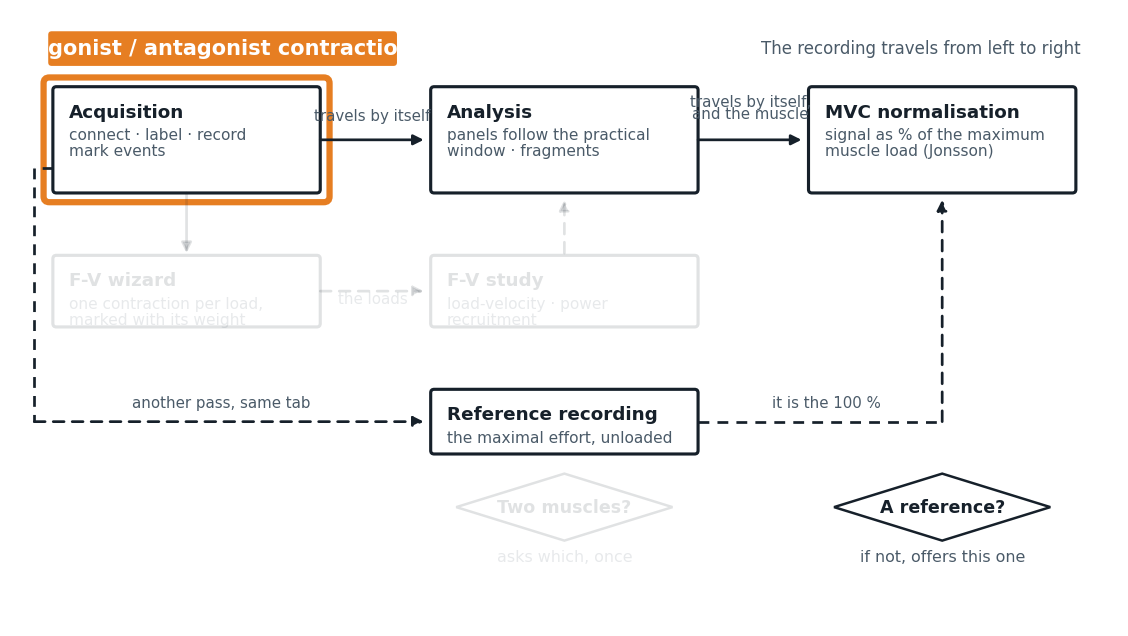
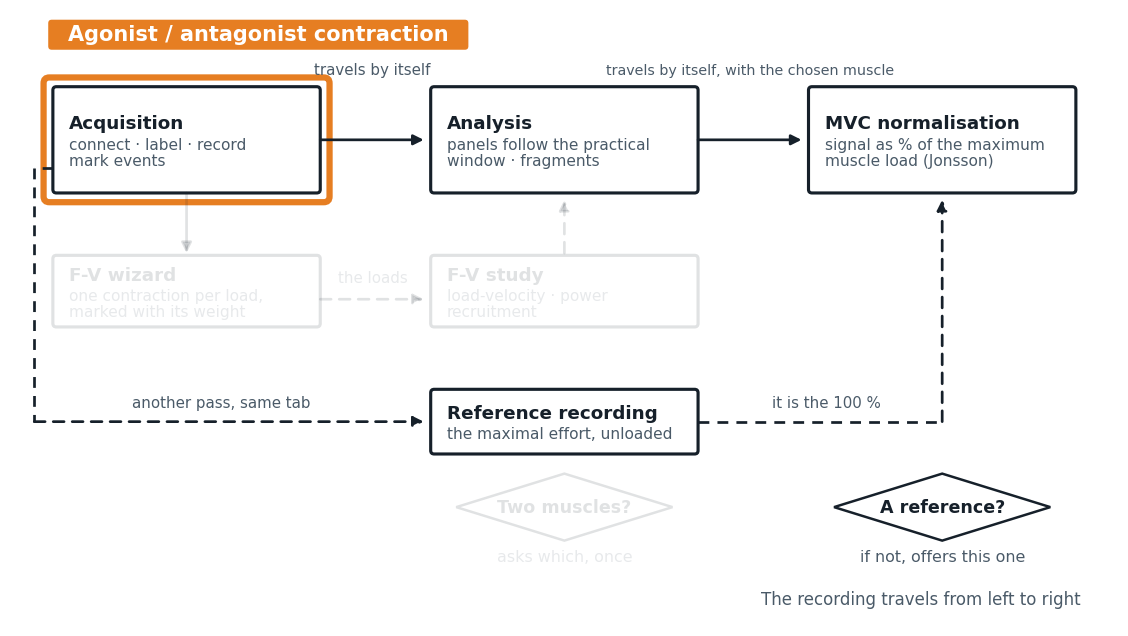
Mapa: medir cada texto y ajustarlo a su caja
El mapa se dibujaba a ojo, así que varias cadenas se salían de su caja
—sobre todo en español, que es más largo que el inglés: el título de la
franja «Contracción agonista / antagonista», los dos rótulos de
fuerza-velocidad y las etiquetas de las flechas del eje.

Ahora cada cadena se mide con get_window_extent y se reduce el cuerpo
hasta que cabe, con un suelo de 5,6 pt. Además:

- El texto de las cajas se centra verticalmente en lugar de colgar a
  22 unidades del borde superior, que dejaba «reclutamiento» encima del
  borde inferior en las cajas bajas de la rama fuerza-velocidad.
- Los dos rótulos del eje pasan por encima de la fila de cajas: 95
  unidades de hueco no dan para una frase, y encogerla solo la hacía
  ilegible en vez de apretada. El de Análisis → CVM deja de partirse en
  dos líneas.
- La franja del modo sube al borde superior y el pie «El registro avanza
  de izquierda a derecha» baja al pie, que era donde chocaban.

Y una prueba nueva que dibuja los cuatro modos en los dos idiomas y
falla si alguna cadena llega al suelo del cuerpo: el desbordamiento solo
lo puede introducir una traducción, que es justo lo que nadie relee.

diff --git a/tools/generar_mapa.py b/tools/generar_mapa.py
@@ -2,15 +2,19 @@
 
     python tools/generar_mapa.py
 
-Writes into ``src/emgteach/gui/../resources/mapa/<lang>/``. The images are
-committed, so the help does not need matplotlib at run time — but they can go
-stale, which is what ``tests/test_mapa.py`` guards: it fails if a practical
-exists with no picture.
+Writes into ``src/emgteach/resources/mapa/<lang>/``. The images are committed,
+so the help does not need matplotlib at run time — but they can go stale,
+which is what ``tests/test_mapa.py`` guards.
 
 The drawing is deliberately plain. It is a map, not a figure: boxes, arrows
 and labels, with everything the current practical does not use faded but left
 in place, so the reader sees what they are not using rather than a different
 diagram each time.
+
+Every string is **measured and made to fit** its box rather than sized by eye.
+Guessing widths does not survive translation: a label that fits in English
+runs out of its box in Spanish, and the first version of this drawing had
+"Contracción agonista / antagonista" hanging off both ends of its band.
 """
 
 from __future__ import annotations
@@ -44,9 +48,36 @@ ANCHO, ALTO = 940, 520
 TINTA = "#16202A"
 SUAVE = "#4A5A68"
 APAGADO = 0.13
+#: Below this the text is unreadable; better to see it overflow while
+#: reviewing than to ship something nobody can read.
+CUERPO_MINIMO = 5.6
 
 
-def _caja(ax, n, encendido: bool) -> None:
+def _ancho_datos(fig, ax, t) -> float:
+    """Width of a drawn text, in the axes' own coordinates."""
+    caja = t.get_window_extent(renderer=fig.canvas.get_renderer())
+    return abs(caja.transformed(ax.transData.inverted()).width)
+
+
+#: Strings that could not be made to fit without going below the floor.
+#: Collected rather than raised: one bad translation should not stop the other
+#: 23 maps being rendered, but it must not pass unmentioned either.
+APRETADOS: list[str] = []
+
+
+def _texto(fig, ax, x, y, s, *, cabe_en=None, cuerpo=8.0, **kw):
+    """Draw text, shrinking it until it fits ``cabe_en`` data units."""
+    t = ax.text(x, y, s, fontsize=cuerpo, **kw)
+    if cabe_en:
+        ancho = _ancho_datos(fig, ax, t)
+        if ancho > cabe_en:
+            if cuerpo * cabe_en / ancho < CUERPO_MINIMO:
+                APRETADOS.append(s)
+            t.set_fontsize(max(CUERPO_MINIMO, cuerpo * cabe_en / ancho))
+    return t
+
+
+def _caja(fig, ax, n, encendido: bool) -> None:
     alfa = 1.0 if encendido else APAGADO
     if n.rombo:
         cx, cy = n.x, n.y
@@ -55,27 +86,35 @@ def _caja(ax, n, encendido: bool) -> None:
              (cx - n.w / 2, cy)],
             closed=True, fill=False, edgecolor=TINTA, linewidth=1.2, alpha=alfa,
         ))
-        ax.text(cx, cy, n.titulo, ha="center", va="center", color=TINTA,
-                fontsize=8.4, fontweight="bold", alpha=alfa)
-        # The note goes *below* the diamond: inside, it would have to be
-        # shorter than the shape is wide at that height, which is not much.
+        # A rhombus is only that wide at its waist, so the question gets about
+        # two thirds of the nominal width.
+        _texto(fig, ax, cx, cy, n.titulo, cabe_en=n.w * 0.66, cuerpo=8.4,
+               ha="center", va="center", color=TINTA, fontweight="bold",
+               alpha=alfa)
         for i, linea in enumerate(n.lineas):
-            ax.text(cx, cy + n.h / 2 + 14 + i * 12, linea, ha="center",
-                    va="center", color=SUAVE, fontsize=7.6, alpha=alfa)
+            _texto(fig, ax, cx, cy + n.h / 2 + 14 + i * 12, linea,
+                   cabe_en=n.w * 1.25, cuerpo=7.6, ha="center", va="center",
+                   color=SUAVE, alpha=alfa)
         return
 
     ax.add_patch(mpatches.FancyBboxPatch(
         (n.x, n.y), n.w, n.h, boxstyle="round,pad=0,rounding_size=3",
         fill=False, edgecolor=TINTA, linewidth=1.5, alpha=alfa,
     ))
-    ax.text(n.x + 14, n.y + 22, n.titulo, color=TINTA, fontsize=8.8,
-            fontweight="bold", va="center", alpha=alfa)
+    # Centred on the box rather than pinned 22 units below its top: the
+    # branch boxes are shorter than the spine ones, and with a fixed offset
+    # their second line came to rest on the bottom border.
+    util = n.w - 28
+    alto = 22 + len(n.lineas) * 14
+    y0 = n.y + (n.h - alto) / 2
+    _texto(fig, ax, n.x + 14, y0 + 11, n.titulo, cabe_en=util, cuerpo=8.8,
+           color=TINTA, fontweight="bold", va="center", alpha=alfa)
     for i, linea in enumerate(n.lineas):
-        ax.text(n.x + 14, n.y + 42 + i * 14, linea, color=SUAVE, fontsize=7.4,
-                va="center", alpha=alfa)
+        _texto(fig, ax, n.x + 14, y0 + 29 + i * 14, linea, cabe_en=util,
+               cuerpo=7.4, color=SUAVE, va="center", alpha=alfa)
 
 
-def _flecha(ax, e, encendido: bool) -> None:
+def _flecha(fig, ax, e, encendido: bool) -> None:
     alfa = 1.0 if encendido else APAGADO
     estilo = (0, (4, 3)) if e.discontinuo else "solid"
     pts = e.puntos
@@ -88,20 +127,34 @@ def _flecha(ax, e, encendido: bool) -> None:
                     "linestyle": estilo, "alpha": alfa,
                     "shrinkA": 0, "shrinkB": 0},
     )
-    if e.etiqueta and e.etiqueta_xy:
-        ax.text(*e.etiqueta_xy, e.etiqueta, ha="center", va="bottom",
-                color=SUAVE, fontsize=7.2, alpha=alfa)
-    for i, linea in enumerate(e.lineas_etiqueta):
-        x, y = e.etiqueta_xy or (0, 0)
-        ax.text(x, y + i * 10, linea, ha="center", va="bottom", color=SUAVE,
-                fontsize=7.2, alpha=alfa)
+    if not e.etiqueta_xy:
+        return
+
+    # A label sitting beside a horizontal arrow has the gap between the two
+    # boxes to live in and nothing more; that gap is the last segment's
+    # length. 20 rather than a token margin: a label that merely *fits* ends
+    # flush against both boxes and reads as if it were touching them. A label
+    # placed clear of the boxes says its own width instead.
+    (x0, y0), (x1, y1) = pts[-2], pts[-1]
+    horizontal = abs(x1 - x0) > abs(y1 - y0)
+    cabe = e.etiqueta_ancho or (abs(x1 - x0) - 20 if horizontal else None)
+
+    _texto(fig, ax, *e.etiqueta_xy, e.etiqueta, cabe_en=cabe, cuerpo=7.2,
+           ha="center", va="bottom", color=SUAVE, alpha=alfa)
 
 
-def dibujar(modo: str, estacion: int, destino: Path) -> None:
+def dibujar(modo: str, estacion: int, destino: Path | None) -> None:
+    """Draw one map; with ``destino`` None, draw it without writing a file.
+
+    The dry run is what the test uses: it only wants to know whether every
+    string fitted, and rendering to disk 24 times to find that out would make
+    the check slow enough that nobody keeps it.
+    """
     fig, ax = plt.subplots(figsize=(ANCHO / 100, ALTO / 100), dpi=150)
     ax.set_xlim(0, ANCHO)
     ax.set_ylim(ALTO, 0)          # y downwards, as the coordinates are written
     ax.axis("off")
+    fig.canvas.draw()             # a renderer has to exist before measuring
 
     color = mode_complexity_colour(modo)
 
@@ -115,26 +168,38 @@ def dibujar(modo: str, estacion: int, destino: Path) -> None:
             ))
 
     for e in ENLACES():
-        _flecha(ax, e, modo in e.modos)
+        _flecha(fig, ax, e, modo in e.modos)
     for n in NODOS():
-        _caja(ax, n, modo in n.modos)
+        _caja(fig, ax, n, modo in n.modos)
 
-    # Which practical this picture is of, in its own colour.
+    # The band naming the practical is sized to its own text: the four names
+    # differ by half again in length, and there are two languages.
+    medida = _texto(fig, ax, 0, -100, mode_label(modo), cuerpo=10,
+                    fontweight="bold", va="center")
+    ancho_banda = min(_ancho_datos(fig, ax, medida) + 34, 460)
+    medida.remove()
+    # Pushed to the very top: at y=12 the longest name ("Contracción
+    # agonista / antagonista") reaches far enough right to sit over the first
+    # spine label, and clipped its ascenders.
     ax.add_patch(mpatches.FancyBboxPatch(
-        (26, 12), 300, 30, boxstyle="round,pad=0,rounding_size=3",
+        (26, 2), ancho_banda, 26, boxstyle="round,pad=0,rounding_size=3",
         facecolor=color, edgecolor="none",
     ))
-    ax.text(176, 27, mode_label(modo), ha="center", va="center",
-            color="white", fontsize=10, fontweight="bold")
-    ax.text(
-        ANCHO - 26, 27,
-        tr("The recording travels from left to right"),
-        ha="right", va="center", color=SUAVE, fontsize=8,
-    )
+    _texto(fig, ax, 26 + ancho_banda / 2, 15, mode_label(modo),
+           cabe_en=ancho_banda - 24, cuerpo=10, ha="center", va="center",
+           color="white", fontweight="bold")
 
-    destino.parent.mkdir(parents=True, exist_ok=True)
-    fig.savefig(destino, dpi=150, bbox_inches="tight", pad_inches=0.12,
-                facecolor="white")
+    # At the foot, not beside the band: the top right is now where the
+    # Analysis → MVC label lives, and two lines of grey text at the same
+    # height read as one crowded paragraph.
+    _texto(fig, ax, ANCHO - 26, ALTO - 16,
+           tr("The recording travels from left to right"),
+           cuerpo=8, ha="right", va="center", color=SUAVE)
+
+    if destino is not None:
+        destino.parent.mkdir(parents=True, exist_ok=True)
+        fig.savefig(destino, dpi=150, bbox_inches="tight", pad_inches=0.12,
+                    facecolor="white")
     plt.close(fig)
 
 
@@ -148,6 +213,12 @@ def main() -> int:
                 dibujar(modo, estacion, destino)
                 hechos += 1
     print(f"{hechos} mapas en {MAPA_DIR}")
+    if APRETADOS:
+        print(f"\n{len(set(APRETADOS))} cadenas no caben ni al cuerpo mínimo "
+              f"({CUERPO_MINIMO} pt); acórtelas o ensanche su caja:")
+        for s in sorted(set(APRETADOS)):
+            print(f"  · {s}")
+        return 1
     return 0
 
 

diff --git a/src/emgteach/gui/mapa.py b/src/emgteach/gui/mapa.py
@@ -14,7 +14,7 @@ keeps the wording in the package, where the i18n completeness test can see it.
 
 from __future__ import annotations
 
-from dataclasses import dataclass, field
+from dataclasses import dataclass
 from pathlib import Path
 
 from emgteach.i18n import get_language, tr
@@ -78,7 +78,10 @@ class Enlace:
     etiqueta_xy: tuple[float, float] | None = None
     modos: tuple[str, ...] = TODOS
     discontinuo: bool = False
-    lineas_etiqueta: tuple[str, ...] = field(default=())
+    #: Width the label may use, when it is not the gap the arrow crosses.
+    #: The two spine labels sit *above* the boxes rather than in the 95-unit
+    #: gap between them, where nothing constrains them but the drawing edge.
+    etiqueta_ancho: float | None = None
 
 
 def _nodos() -> list[Nodo]:
@@ -137,14 +140,21 @@ def _nodos() -> list[Nodo]:
 
 def _enlaces() -> list[Enlace]:
     return [
-        Enlace(((260, 106), (349, 106)), tr("travels by itself"), (305, 92)),
+        # The spine labels ride above the row of boxes, not in the gap between
+        # them: 95 units is not enough for a phrase, and shrinking one until
+        # it fits only makes it unreadable instead of cramped.
         Enlace(
-            ((585, 106), (674, 106)), "", (630, 80),
-            lineas_etiqueta=(tr("travels by itself,"), tr("and the muscle")),
+            ((260, 106), (349, 106)), tr("travels by itself"), (305, 52),
+            etiqueta_ancho=250,
+        ),
+        Enlace(
+            ((585, 106), (674, 106)),
+            tr("travels by itself, with the chosen muscle"), (630, 52),
+            etiqueta_ancho=250,
         ),
         Enlace(((145, 152), (145, 204)), modos=CON_ACC),
         Enlace(
-            ((260, 237), (349, 237)), tr("the loads"), (305, 250),
+            ((260, 244), (349, 244)), tr("the loads"), (305, 232),
             modos=CON_ACC, discontinuo=True,
         ),
         Enlace(((470, 204), (470, 158)), modos=CON_ACC, discontinuo=True),

diff --git a/tests/test_mapa.py b/tests/test_mapa.py
@@ -80,3 +80,47 @@ class TestTheMapMatchesTheApplication:
         for n in NODOS():
             if n.id in ("fv_asis", "fv_est"):
                 assert set(n.modos) == {m for m in MODES if mode_uses_acc(m)}
+
+
+def test_no_label_has_to_be_shrunk_past_legibility() -> None:
+    """Every string on the map fits its box at a readable size.
+
+    The generator measures each string and shrinks it to fit, with a floor
+    below which it stops shrinking and simply overflows. That floor is where
+    the bug the user reported lives — text out of its box — and only a
+    translation can put a string there, which is exactly what nobody rereads.
+    So run the real drawing over both languages and all four practicals and
+    fail on anything that hit the floor.
+    """
+    import importlib.util
+
+    if importlib.util.find_spec("matplotlib") is None:
+        pytest.skip("the generator needs matplotlib; the images are committed")
+
+    import sys
+    from pathlib import Path
+
+    raiz = Path(__file__).resolve().parent.parent / "tools"
+    sys.path.insert(0, str(raiz))
+    try:
+        import generar_mapa
+    finally:
+        sys.path.remove(str(raiz))
+
+    from emgteach.i18n import get_language, set_language
+
+    antes = get_language()
+    generar_mapa.APRETADOS.clear()
+    try:
+        for lang in IDIOMAS:
+            set_language(lang)
+            for mode in MODES:
+                # Station 0 exercises every box and arrow; the others differ
+                # only in which one is ringed.
+                generar_mapa.dibujar(mode, 0, None)
+    finally:
+        set_language(antes)
+
+    assert not generar_mapa.APRETADOS, (
+        "too long for their boxes: " + ", ".join(sorted(set(generar_mapa.APRETADOS)))
+    )

diff --git a/src/emgteach/i18n.py b/src/emgteach/i18n.py
@@ -1357,8 +1357,7 @@ _ES = {
     'A reference?': '¿Hay referencia?',
     'if not, offers this one': 'si no, ofrece este registro',
     'travels by itself': 'viaja solo',
-    'travels by itself,': 'viaja solo,',
-    'and the muscle': 'y el músculo',
+    'travels by itself, with the chosen muscle': 'viaja solo, con el músculo elegido',
     'the loads': 'las cargas',
     'another pass, same tab': 'otra pasada, misma pestaña',
     'it is the 100 %': 'es el 100 %',
